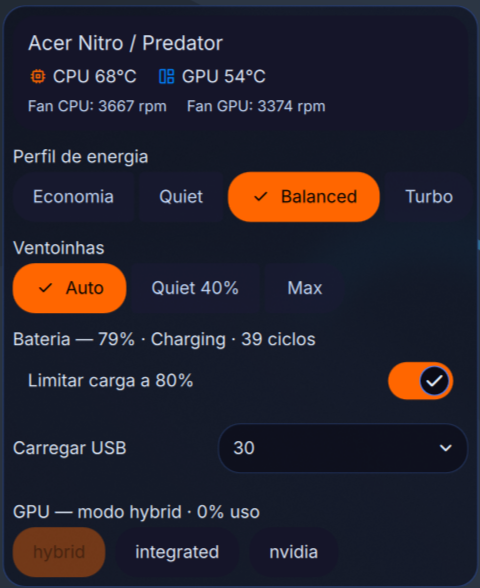
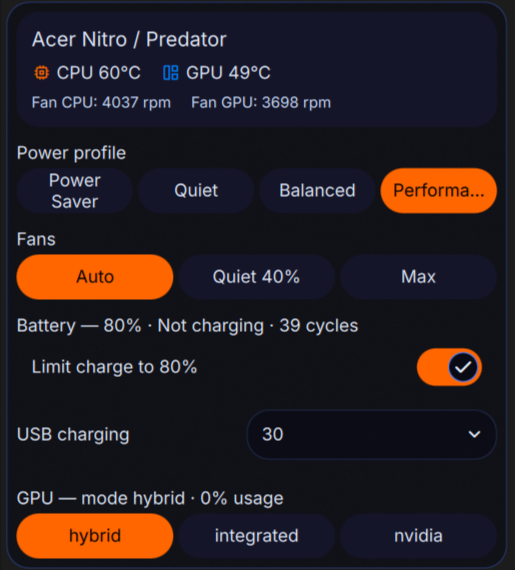
fix: full-width segmented selectors + English screenshot
Replace content-sized DankButtonGroup with a fill-width SegSelector
(equal cells, centered labels) for profile/fan/GPU so rows span the
popout edge-to-edge without clipping or wasted side space. Popout 400px.

diff --git a/AcerSenseWidget.qml b/AcerSenseWidget.qml
@@ -24,7 +24,45 @@ PluginComponent {
     readonly property var profileValues: ["low-power", "quiet", "balanced", "balanced-performance"]
     readonly property var profileLabels: [tr("Power Saver"), tr("Quiet"), tr("Balanced"), tr("Performance")]
 
-    popoutWidth: 380
+    popoutWidth: 400
+
+    component SegSelector: Row {
+        id: seg
+
+        property var labels: []
+        property int current: -1
+        signal picked(int index)
+
+        spacing: Theme.spacingXS
+
+        Repeater {
+            model: seg.labels
+            Rectangle {
+                width: (seg.width - seg.spacing * (seg.labels.length - 1)) / Math.max(1, seg.labels.length)
+                height: 36
+                radius: Theme.cornerRadius
+                color: index === seg.current ? Theme.primary : (cellArea.containsMouse ? Theme.surfaceContainerHighest : Theme.surfaceContainerHigh)
+
+                StyledText {
+                    anchors.centerIn: parent
+                    width: parent.width - Theme.spacingS * 2
+                    horizontalAlignment: Text.AlignHCenter
+                    elide: Text.ElideRight
+                    text: modelData
+                    color: index === seg.current ? Theme.onPrimary : Theme.surfaceText
+                    font.pixelSize: Theme.fontSizeMedium
+                }
+
+                MouseArea {
+                    id: cellArea
+                    anchors.fill: parent
+                    hoverEnabled: true
+                    cursorShape: Qt.PointingHandCursor
+                    onClicked: seg.picked(index)
+                }
+            }
+        }
+    }
 
     function tr(k) {
         return Tr.tr(k, root.lang);
@@ -321,14 +359,11 @@ PluginComponent {
                         font.weight: Font.Medium
                         color: Theme.surfaceText
                     }
-                    DankButtonGroup {
+                    SegSelector {
                         width: parent.width
-                        model: root.profileLabels
-                        currentIndex: root.profileValues.indexOf(root.telemetry.profile)
-                        onSelectionChanged: (index, selected) => {
-                            if (selected)
-                                root.setProfile(root.profileValues[index]);
-                        }
+                        labels: root.profileLabels
+                        current: root.profileValues.indexOf(root.telemetry.profile)
+                        onPicked: i => root.setProfile(root.profileValues[i])
                     }
                 }
 
@@ -342,16 +377,14 @@ PluginComponent {
                         font.weight: Font.Medium
                         color: Theme.surfaceText
                     }
-                    DankButtonGroup {
+                    SegSelector {
                         width: parent.width
-                        model: ["Auto", root.tr("Quiet") + " " + root.fanQuiet + "%", "Max"]
-                        currentIndex: root.fanPresetIndex(root.telemetry.fanSpeed)
-                        onSelectionChanged: (index, selected) => {
-                            if (!selected)
-                                return;
-                            if (index === 0)
+                        labels: ["Auto", root.tr("Quiet") + " " + root.fanQuiet + "%", "Max"]
+                        current: root.fanPresetIndex(root.telemetry.fanSpeed)
+                        onPicked: i => {
+                            if (i === 0)
                                 root.setFan("auto");
-                            else if (index === 1)
+                            else if (i === 1)
                                 root.setFan("quiet");
                             else
                                 root.setFan("max");
@@ -400,20 +433,15 @@ PluginComponent {
                         color: Theme.surfaceText
                     }
 
-                    Row {
+                    SegSelector {
                         width: parent.width
-                        spacing: Theme.spacingS
                         visible: panel.pendingGpu === ""
-
-                        Repeater {
-                            model: ["hybrid", "integrated", "nvidia"]
-                            DankButton {
-                                text: modelData
-                                backgroundColor: root.gpuData.gpuMode === modelData ? Theme.primary : Theme.surfaceContainerHigh
-                                textColor: root.gpuData.gpuMode === modelData ? Theme.onPrimary : Theme.surfaceText
-                                enabled: root.gpuData.gpuMode !== modelData
-                                onClicked: panel.pendingGpu = modelData
-                            }
+                        labels: ["hybrid", "integrated", "nvidia"]
+                        current: ["hybrid", "integrated", "nvidia"].indexOf(root.gpuData.gpuMode)
+                        onPicked: i => {
+                            const m = ["hybrid", "integrated", "nvidia"][i];
+                            if (m !== root.gpuData.gpuMode)
+                                panel.pendingGpu = m;
                         }
                     }
 